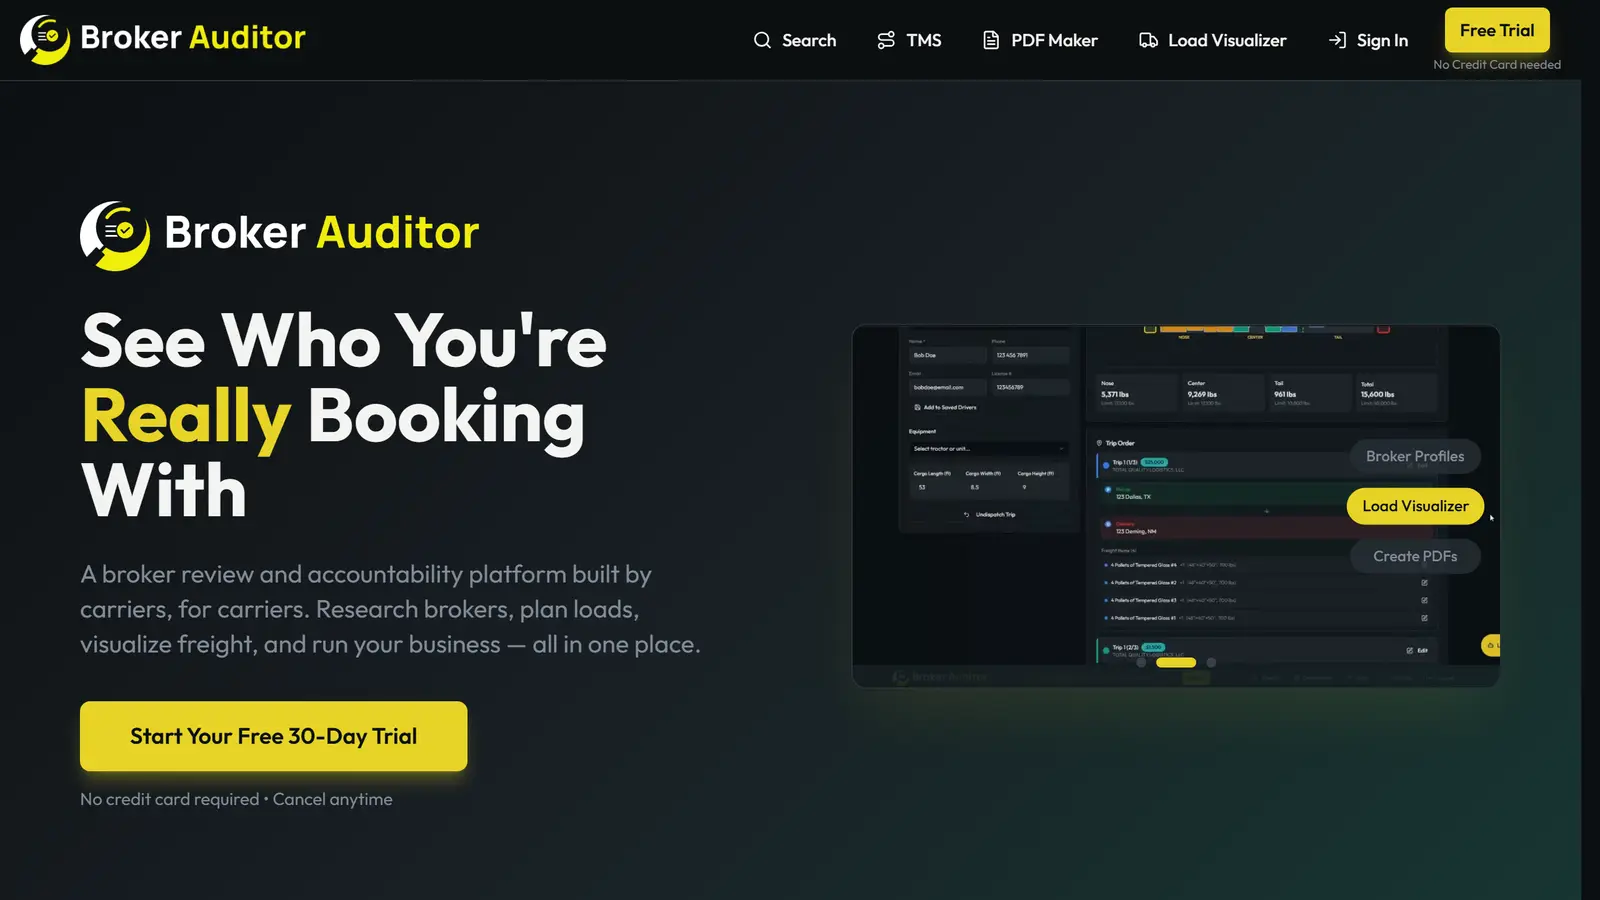
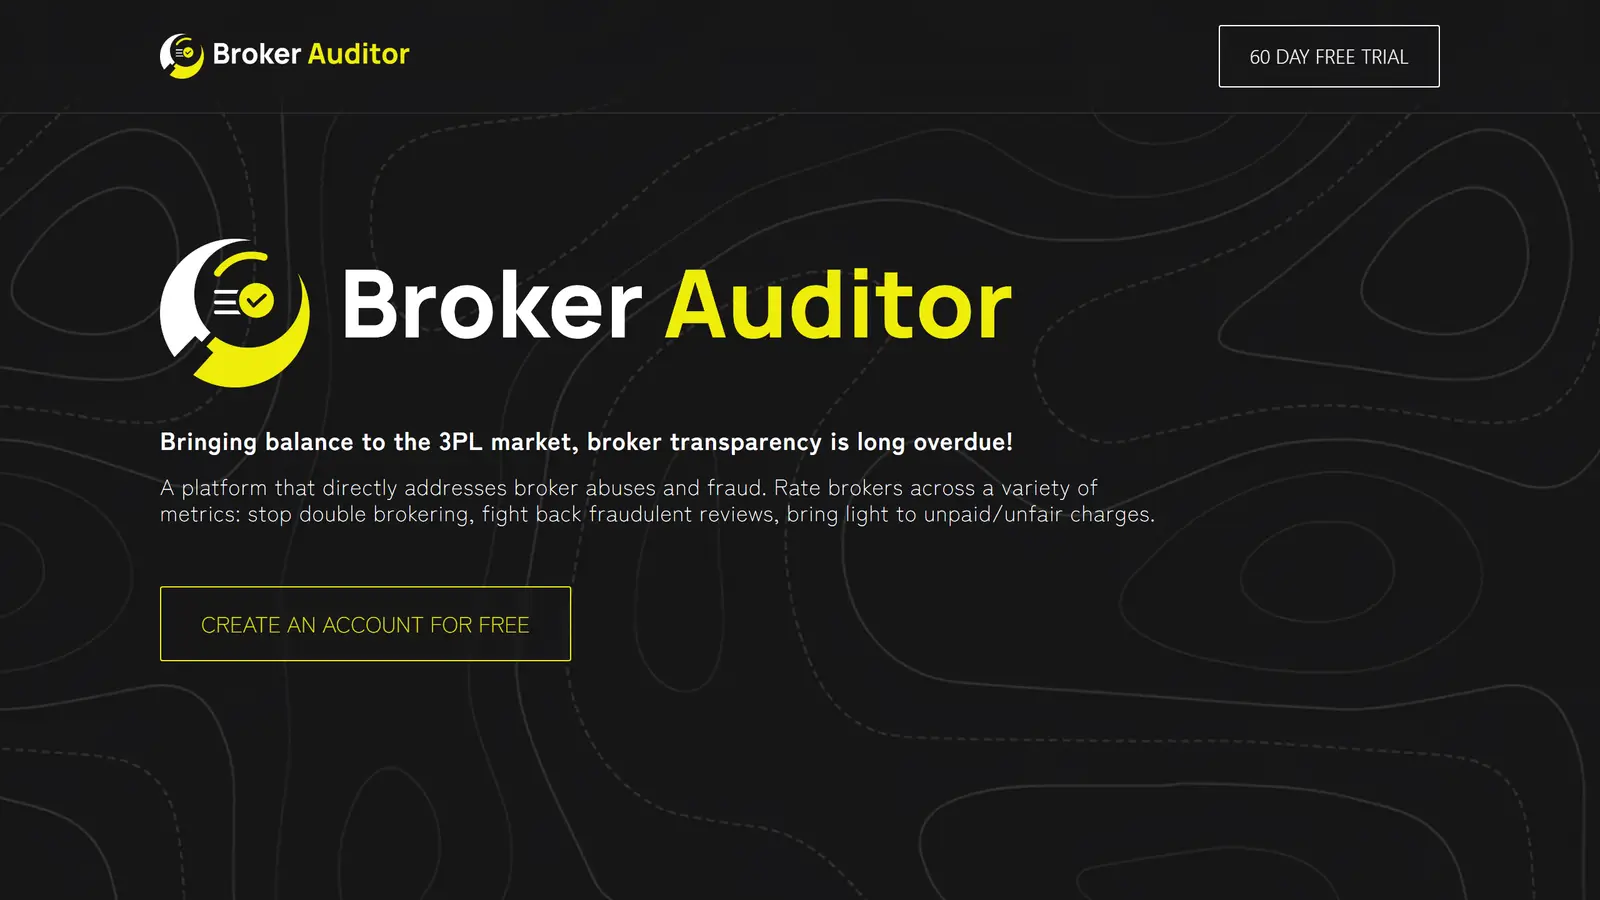
Link Broker Auditor to the first version I built

diff --git a/src/content/work.ts b/src/content/work.ts
@@ -72,18 +72,18 @@ export const WORKS: Work[] = [
     },
   },
   {
-    // TODO(Đurađ): confirm wording with the client (CV: frontend features, 15+ screens).
     slug: 'broker-auditor',
     name: 'Broker Auditor',
-    domain: 'brokerauditor.com',
-    url: 'https://brokerauditor.com',
+    // The first version of the product, built by Đurađ; not the client's current official site.
+    domain: 'broker-auditory-fe.vercel.app',
+    url: 'https://broker-auditory-fe.vercel.app/',
     featured: false,
     period: { en: 'Oct 2024 – Apr 2025', sr: 'okt 2024 – apr 2025' },
     role: { en: 'Frontend developer, remote team', sr: 'Frontend developer, tim na daljinu' },
     kind: { en: 'US freight reviews · React, Tailwind', sr: 'Recenzije u US transportu · React, Tailwind' },
     summary: {
-      en: 'Production frontend features for a US freight platform where carriers review freight brokers.',
-      sr: 'Frontend funkcije za američku platformu na kojoj prevoznici ocenjuju brokere tereta.',
+      en: 'The first version of the frontend for a US freight platform where carriers review freight brokers.',
+      sr: 'Prva verzija frontenda za američku platformu na kojoj prevoznici ocenjuju brokere tereta.',
     },
     stack: ['JavaScript', 'React', 'Tailwind CSS'],
     metrics: [],
@@ -99,7 +99,7 @@ export const WORKS: Work[] = [
         {
           heading: 'My part',
           body: [
-            'For seven months I worked remotely in a distributed team across time zones and implemented more than 15 screens in React and Tailwind CSS.',
+            'I built the first version of the frontend: for seven months I worked remotely in a distributed team across time zones and implemented more than 15 screens in React and Tailwind CSS.',
             'Requirements changed often; my job was to turn them into working UI quickly and keep it consistent with the rest of the product.',
           ],
         },
@@ -114,7 +114,7 @@ export const WORKS: Work[] = [
         {
           heading: 'Moj deo',
           body: [
-            'Sedam meseci sam radio na daljinu u timu raspoređenom po vremenskim zonama i napravio više od 15 ekrana u React-u i Tailwind CSS-u.',
+            'Napravio sam prvu verziju frontenda: sedam meseci sam radio na daljinu u timu raspoređenom po vremenskim zonama i napravio više od 15 ekrana u React-u i Tailwind CSS-u.',
             'Zahtevi su se često menjali; moj posao je bio da ih brzo pretvorim u UI koji radi i da ostane usklađen sa ostatkom proizvoda.',
           ],
         },
